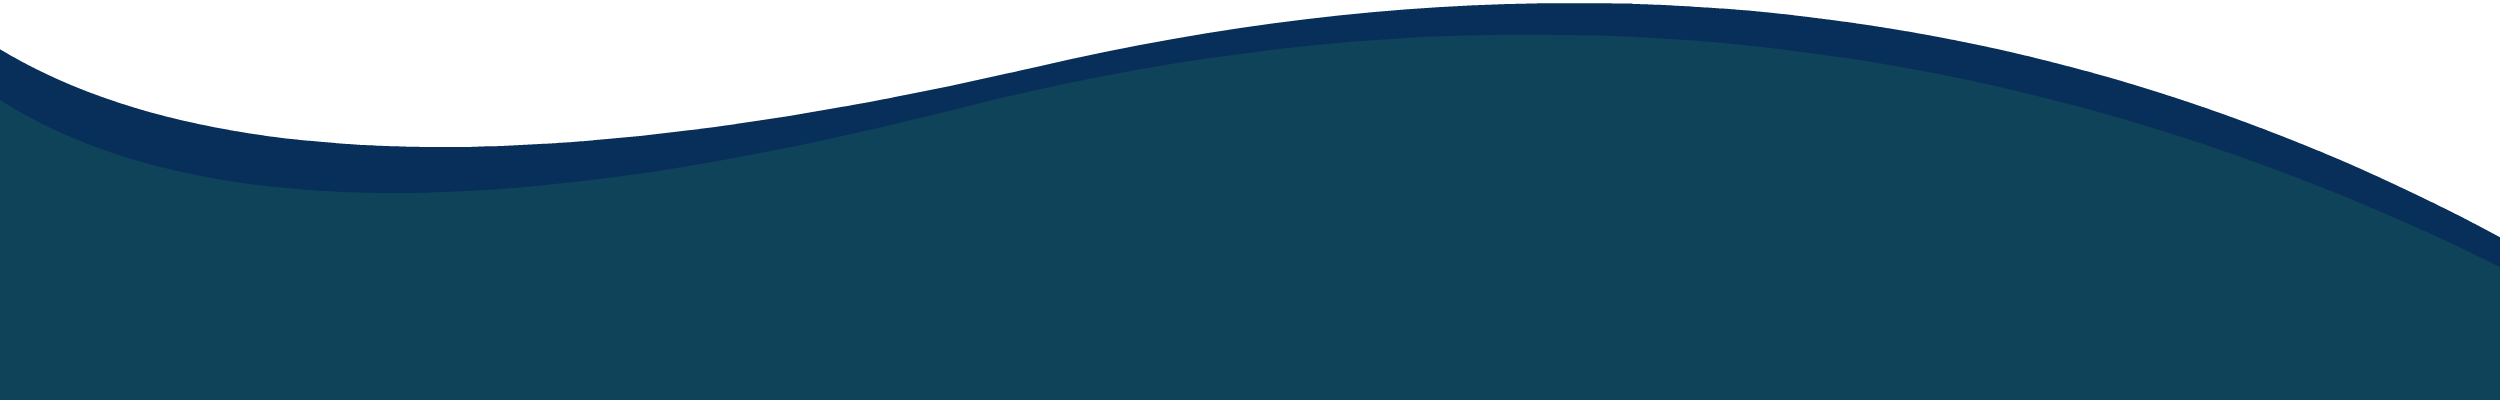
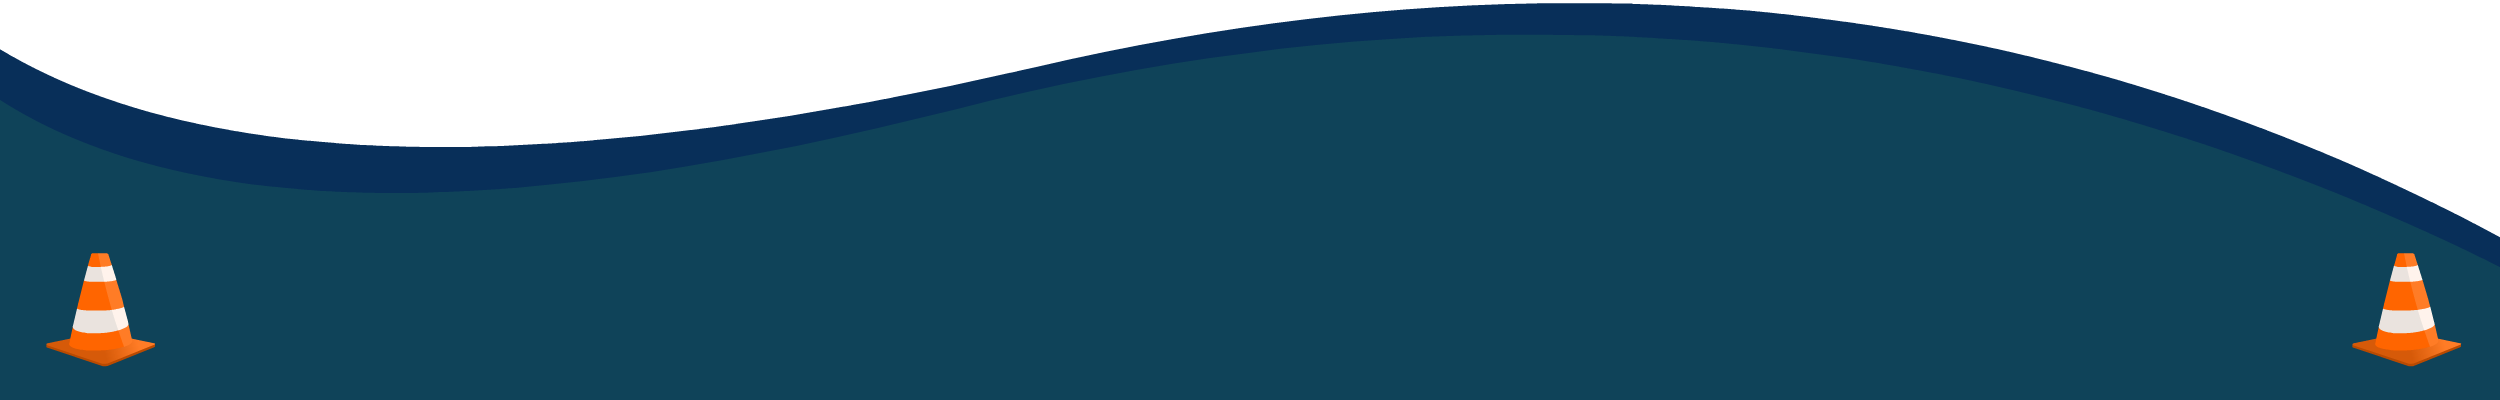
footer

Changed region(s): [[0.936, 0.63, 0.9984, 0.93], [0.0, 0.63, 0.0624, 0.93]]

diff --git a/index.html b/index.html
@@ -10,7 +10,7 @@
     <link rel='stylesheet' type='text/css' media='screen' href="assets/css/fontawesome.css" />
     <link rel='stylesheet' type='text/css' media='screen' href="assets/css/solid.css" />
     <link rel='stylesheet' type='text/css' media='screen' href="assets/css/brands.css" />
-    <script src='assets/js/main.js'></script>
+    <script src='assets/js/main.js' defer></script>
 </head>
 <body class="body">
     <nav class="nav">
@@ -34,7 +34,8 @@
         COMING SOON
     </main>
     <footer class="footer">
-        <img src="images/footer_large.png" class="banner banner--footer">
+        <div>Designed by Rob Davis</div>
+        <div>Copyright © <span id="copyright">{{year}}</span> Carnell Car School</div>
     </footer>
 </body>
 </html>

diff --git a/assets/css/main.css b/assets/css/main.css
@@ -21,6 +21,12 @@ body {
 .footer {
   grid-column: 1;
   grid-row: 4;
+  background-image: url("images/footer_large.png");
+  background-size: contain;
+  background-repeat: no-repeat;
+  border-bottom-left-radius: 2em;
+  border-bottom-right-radius: 2em;
+  background-position: bottom;
 }
 
 .main {
@@ -98,8 +104,7 @@ body {
   color: white;
 }
 .button:active {
-  background-color: #ff6400;
-  color: white;
+  color: #ff6400;
 }
 
 a {

diff --git a/assets/sass/main.scss b/assets/sass/main.scss
@@ -33,6 +33,12 @@ body {
 .footer {
     grid-column: 1;
     grid-row: 4;
+    background-image: url('images/footer_large.png');
+    background-size: contain;
+    background-repeat: no-repeat;
+    border-bottom-left-radius: 2em;
+    border-bottom-right-radius: 2em;
+    background-position: bottom;
 }
 
 .main {

diff --git a/assets/js/main.js b/assets/js/main.js
@@ -1,1 +1,12 @@
-// TODO
+const setup = () => {
+    setCopyrightYear();
+}
+
+const setCopyrightYear = () => {
+    const el = document.getElementById("copyright");
+    const year = new Date().getFullYear();
+    el.innerHTML = year;
+}
+
+// Setup everything
+setup();
